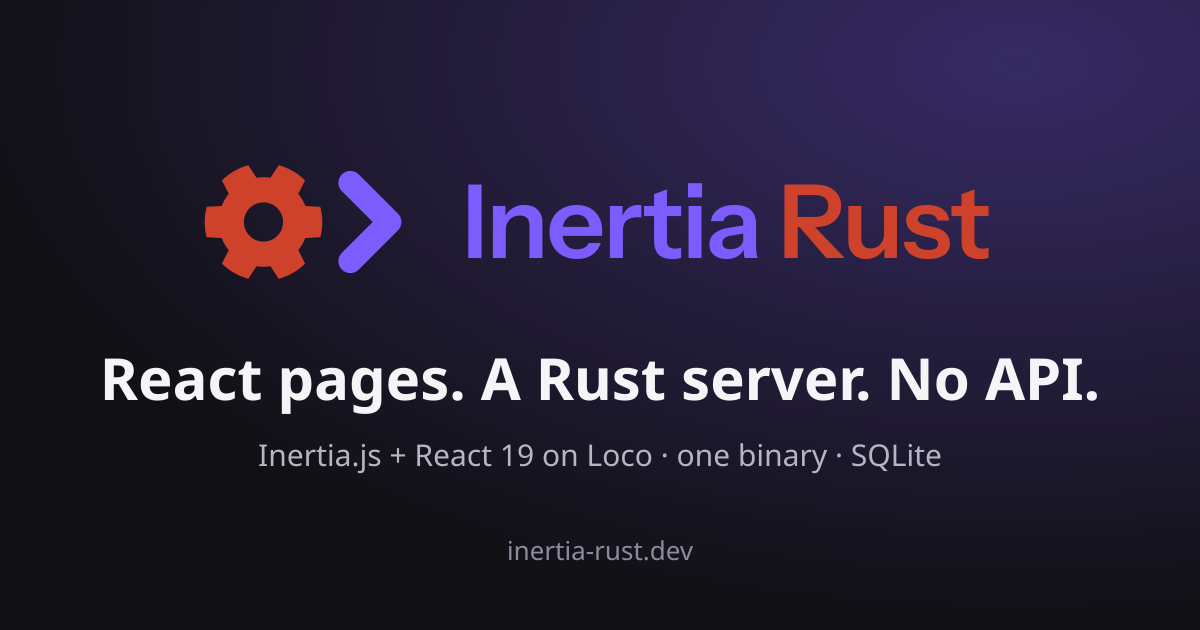
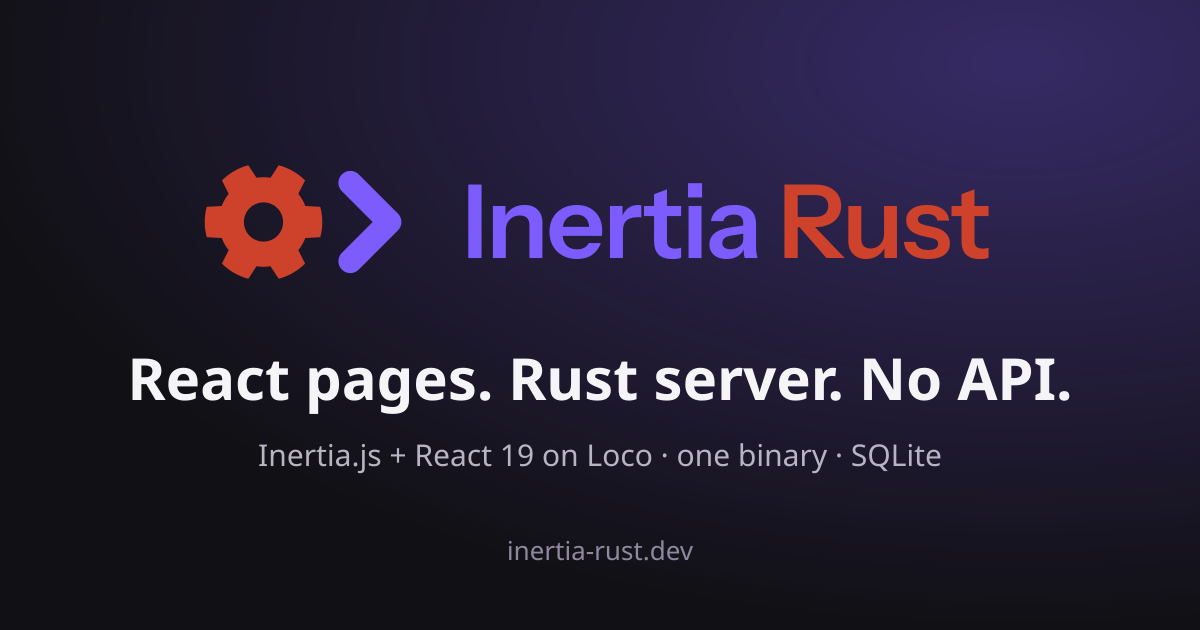
site: code example right under the hero; "Rust server" without the article
The landing page now opens like inertia-rails.dev: hero, then the controller and the React
page it renders, then the feature cards. The code lives in site/partials/home-code.md and is
rendered into the default theme's home-features-before slot, so the cards keep their own
layout. The headline, page title, description and share image read "React pages. Rust
server. No API."

Changed region(s): [[0.0617, 0.5429, 0.925, 0.6635]]

diff --git a/site/.vitepress/theme/custom.css b/site/.vitepress/theme/custom.css
@@ -127,3 +127,30 @@ html.dark .light-only {
   font-size: 0.95rem;
   color: var(--vp-c-text-2);
 }
+
+/* The code example between the hero and the feature cards: same width and gutters as the
+   cards (VPFeatures: max-width 1152px, padding 24/48/64px), so their edges line up. */
+.home-code {
+  padding: 0 24px;
+  margin-bottom: 48px;
+}
+@media (min-width: 640px) {
+  .home-code {
+    padding: 0 48px;
+  }
+}
+@media (min-width: 960px) {
+  .home-code {
+    padding: 0 64px;
+  }
+}
+.home-code > .vp-doc {
+  max-width: 1152px;
+  margin: 0 auto;
+  padding: 0;
+}
+.home-code h2:first-child {
+  border-top: none;
+  margin-top: 0;
+  padding-top: 0;
+}

diff --git a/site/.vitepress/theme/index.ts b/site/.vitepress/theme/index.ts
@@ -1,5 +1,17 @@
+import { h } from "vue"
 import DefaultTheme from "vitepress/theme"
+import type { Theme } from "vitepress"
+
+// The landing page's code example, shown right under the hero (like inertia-rails.dev),
+// before the feature cards that VitePress renders from index.md's frontmatter.
+import HomeCode from "../../partials/home-code.md"
 
 import "./custom.css"
 
-export default DefaultTheme
+export default {
+  extends: DefaultTheme,
+  Layout: () =>
+    h(DefaultTheme.Layout, null, {
+      "home-features-before": () => h("div", { class: "home-code" }, [h("div", { class: "vp-doc" }, [h(HomeCode)])]),
+    }),
+} satisfies Theme

diff --git a/site/index.md b/site/index.md
@@ -1,12 +1,12 @@
 ---
 layout: home
-title: "Inertia Rust: React pages, a Rust server, no API"
+title: "Inertia Rust: React pages, Rust server, no API"
 titleTemplate: false
 description: "An Inertia.js v3 + React 19 starter kit on a Rust server (Loco): auth, accounts, live updates and generators built in. One binary, SQLite, no API layer."
 
 hero:
   name: Inertia Rust
-  text: React pages. A Rust server. No API.
+  text: React pages. Rust server. No API.
   tagline: "An Inertia.js starter kit for Rust: React 19 and shadcn/ui pages, served by a Loco server with auth, accounts, live updates and generators built in. One binary, SQLite, and nothing to keep in sync between them."
   image:
     src: /mark.svg
@@ -64,24 +64,6 @@ features:
     link: /guide/deploy
     linkText: Deploy guide
 ---
-
-<div class="home-section">
-
-## A controller and the page it renders
-
-<p class="lede">The controller loads the data and hands it to a React page as props. There's no JSON API in between, and nothing to keep in sync.</p>
-
-::: code-group
-
-<<< @/snippets/controller.rs [Rust controller]
-
-<<< @/snippets/page.tsx [React page]
-
-:::
-
-`cargo loco generate scaffold projects name:string!` writes both, plus the model, migration, routes and tests.
-
-</div>
 
 <div class="home-section">
 

diff --git a/site/partials/home-code.md b/site/partials/home-code.md
@@ -1,0 +1,13 @@
+## A controller and the page it renders
+
+<p class="lede">The controller loads the data and hands it to a React page as props. There's no JSON API in between, and nothing to keep in sync.</p>
+
+::: code-group
+
+<<< @/snippets/controller.rs [Rust controller]
+
+<<< @/snippets/page.tsx [React page]
+
+:::
+
+`cargo loco generate scaffold projects name:string!` writes both, plus the model, migration, routes and tests.
